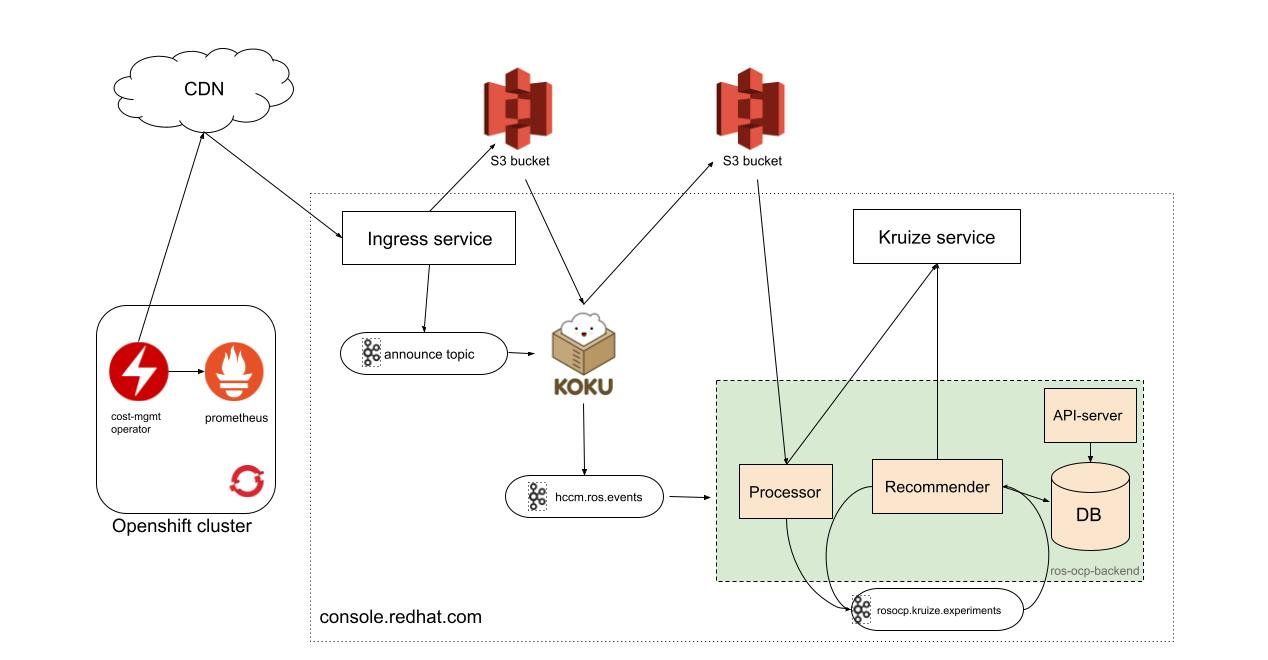
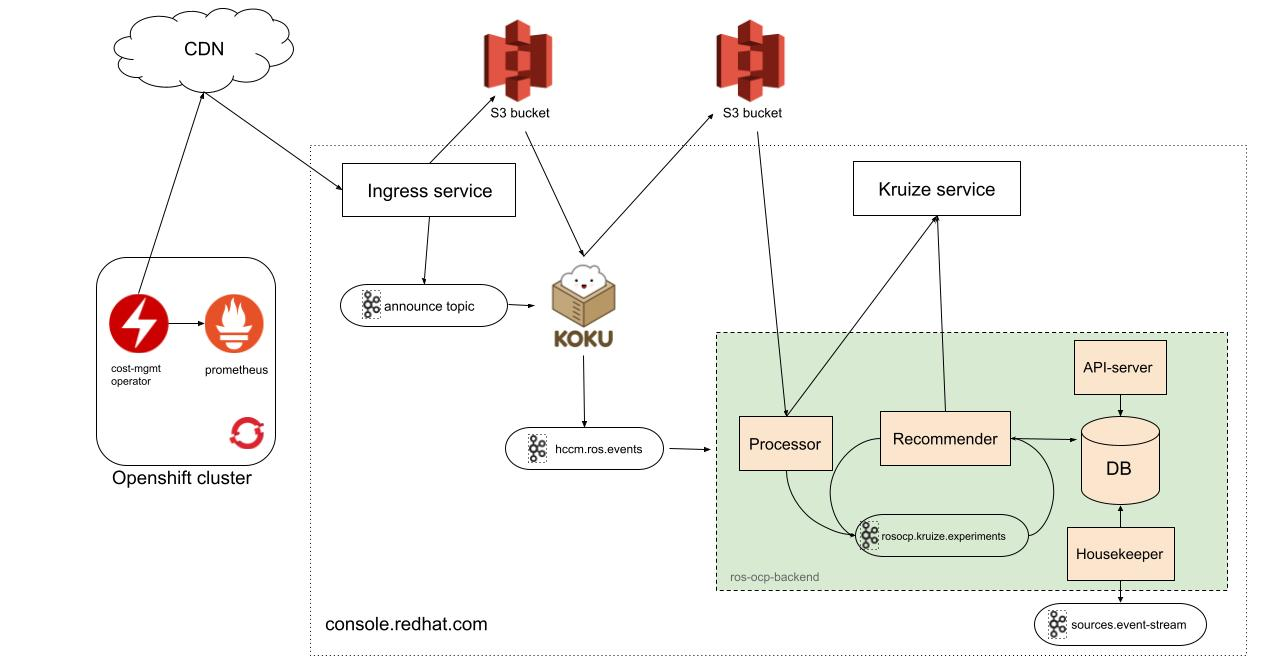
Fixes #RHIROS-1214 - Sources integration (#103)
* Fixes #RHIROS-1214 - Sources integration

diff --git a/internal/config/config.go b/internal/config/config.go
@@ -23,6 +23,7 @@ type Config struct {
 	KafkaAutoCommit       bool   `mapstructure:"KAFKA_AUTO_COMMIT"`
 	UploadTopic           string `mapstructure:"UPLOAD_TOPIC"`
 	ExperimentsTopic      string `mapstructure:"EXPERIMENTS_TOPIC"`
+	SourcesEventTopic     string `mapstructure:"SOURCES_EVENT_TOPIC"`
 	KafkaUsername         string
 	KafkaPassword         string
 	KafkaSASLMechanism    string
@@ -59,6 +60,10 @@ type Config struct {
 
 	// Prometheus config
 	PrometheusPort string `mapstructure:"PROMETHEUS_PORT"`
+
+	// Sources-api-go config
+	SourceApiBaseUrl string `mapstructure:"SOURCES_API_BASE_URL"`
+	SourceApiPrefix  string `mapstructure:"SOURCES_API_PREFIX"`
 }
 
 var cfg *Config = nil
@@ -73,6 +78,7 @@ func initConfig() {
 		viper.SetDefault("KAFKA_BOOTSTRAP_SERVERS", strings.Join(clowder.KafkaServers, ","))
 		viper.SetDefault("UPLOAD_TOPIC", clowder.KafkaTopics["hccm.ros.events"].Name)
 		viper.SetDefault("EXPERIMENTS_TOPIC", clowder.KafkaTopics["rosocp.kruize.experiments"].Name)
+		viper.SetDefault("SOURCES_EVENT_TOPIC", clowder.KafkaTopics["platform.sources.event-stream"].Name)
 
 		// Kafka SSL Config
 		if broker.Authtype != nil {
@@ -106,6 +112,8 @@ func initConfig() {
 				viper.SetDefault("RBACPort", endpoint.Port)
 				viper.SetDefault("RBACProtocol", "http")
 				viper.SetDefault("RBAC_ENABLE", true)
+			} else if endpoint.App == "sources-api" {
+				viper.SetDefault("SOURCES_API_BASE_URL", fmt.Sprintf("http://%v:%v", endpoint.Hostname, endpoint.Port))
 			}
 		}
 
@@ -125,6 +133,7 @@ func initConfig() {
 		viper.SetDefault("KAFKA_BOOTSTRAP_SERVERS", "localhost:29092")
 		viper.SetDefault("UPLOAD_TOPIC", "hccm.ros.events")
 		viper.SetDefault("EXPERIMENTS_TOPIC", "rosocp.kruize.experiments")
+		viper.SetDefault("SOURCES_EVENT_TOPIC", "platform.sources.event-stream")
 
 		// default DB Config
 		viper.SetDefault("DBName", "postgres")
@@ -144,7 +153,12 @@ func initConfig() {
 		// prometheus config
 		viper.SetDefault("PROMETHEUS_PORT", "5005")
 
+		// Sources-api-go
+		viper.SetDefault("SOURCES_API_BASE_URL", "http://127.0.0.1:8002")
+
 	}
+
+	viper.SetDefault("SOURCES_API_PREFIX", "/api/sources/v3.1")
 	viper.SetDefault("SERVICE_NAME", "rosocp")
 	viper.SetDefault("API_PORT", "8000")
 	viper.SetDefault("KRUIZE_WAIT_TIME", "30")

diff --git a/internal/services/houseKeeper.go b/internal/services/houseKeeper.go
@@ -1,0 +1,62 @@
+package services
+
+import (
+	"encoding/json"
+	"os"
+	"strconv"
+
+	k "github.com/confluentinc/confluent-kafka-go/v2/kafka"
+	"github.com/labstack/gommon/log"
+
+	"github.com/redhatinsights/ros-ocp-backend/internal/config"
+	"github.com/redhatinsights/ros-ocp-backend/internal/kafka"
+	"github.com/redhatinsights/ros-ocp-backend/internal/logging"
+	"github.com/redhatinsights/ros-ocp-backend/internal/model"
+	"github.com/redhatinsights/ros-ocp-backend/internal/types"
+	"github.com/redhatinsights/ros-ocp-backend/internal/utils/sources"
+)
+
+var cost_app_id int
+
+func StartHouseKeeperService() {
+	log := logging.GetLogger()
+	cfg := config.GetConfig()
+	var err error
+	cost_app_id, err = sources.GetCostApplicationID()
+	if err != nil {
+		log.Error("Unable to get cost application id")
+		os.Exit(1)
+	}
+
+	kafka.StartConsumer(cfg.SourcesEventTopic, sourcesListener)
+
+}
+
+func sourcesListener(msg *k.Message) {
+	headers := msg.Headers
+	for _, v := range headers {
+		if v.Key == "event_type" && string(v.Value) == "Application.destroy" {
+			var data types.SourcesEvent
+			if !json.Valid([]byte(msg.Value)) {
+				log.Errorf("Received message on kafka topic is not vaild JSON: %s", msg.Value)
+				return
+			}
+			if err := json.Unmarshal(msg.Value, &data); err != nil {
+				log.Errorf("Unable to decode kafka message: %s", msg.Value)
+				return
+			}
+			if data.Application_type_id == cost_app_id {
+				cluster := model.Cluster{
+					SourceId: strconv.Itoa(data.Source_id),
+				}
+				if err := cluster.DeleteCluster(); err != nil {
+					log.Errorf("unable to delete record from clusters table: %v. Error: %v", cluster, err)
+				} else {
+					log.Infof("Successfully deleted the cluster with Source_id: %v.", cluster.SourceId)
+				}
+			}
+
+		}
+	}
+
+}

diff --git a/internal/utils/sources/sources_api.go b/internal/utils/sources/sources_api.go
@@ -1,0 +1,34 @@
+package sources
+
+import (
+	"encoding/json"
+	"fmt"
+	"io"
+	"net/http"
+	"strconv"
+
+	"github.com/redhatinsights/ros-ocp-backend/internal/config"
+)
+
+var cfg *config.Config = config.GetConfig()
+
+func GetCostApplicationID() (int, error) {
+	url := cfg.SourceApiBaseUrl + cfg.SourceApiPrefix + "/application_types?filter[name][eq]=/insights/platform/cost-management"
+	res, err := http.Get(url)
+	if err != nil {
+		return 0, fmt.Errorf("error while calling sources API: %v", err)
+	}
+	defer res.Body.Close()
+	body, _ := io.ReadAll(res.Body)
+	if res.StatusCode != 200 {
+		return 0, fmt.Errorf("%v", res)
+	}
+	payload := map[string]interface{}{}
+	if err := json.Unmarshal(body, &payload); err != nil {
+		return 0, fmt.Errorf("unable to unmarshal response of sources /application_types API %v", err)
+	}
+	data := payload["data"].([]interface{})
+	app := data[0].(map[string]interface{})
+	cost_app_id, _ := strconv.Atoi(app["id"].(string))
+	return cost_app_id, nil
+}

diff --git a/cmd/start.go b/cmd/start.go
@@ -47,9 +47,19 @@ var apiCmd = &cobra.Command{
 	},
 }
 
+var houseKeeperCmd = &cobra.Command{
+	Use:   "housekeeper",
+	Short: "starts ros-ocp housekeeper service",
+	Run: func(cmd *cobra.Command, args []string) {
+		fmt.Println("starting ros-ocp housekeeper service")
+		services.StartHouseKeeperService()
+	},
+}
+
 func init() {
 	rootCmd.AddCommand(startCmd)
 	startCmd.AddCommand(processorCmd)
 	startCmd.AddCommand(recommenderCmd)
 	startCmd.AddCommand(apiCmd)
+	startCmd.AddCommand(houseKeeperCmd)
 }

diff --git a/internal/model/cluster.go b/internal/model/cluster.go
@@ -37,3 +37,13 @@ func (c *Cluster) CreateCluster() error {
 	}
 	return nil
 }
+
+func (c *Cluster) DeleteCluster() error {
+	db := database.GetDB()
+	result := db.Where("source_id = ?", c.SourceId).Delete(c)
+	if result.Error != nil {
+		dbError.Inc()
+		return result.Error
+	}
+	return nil
+}

diff --git a/internal/types/sources.go b/internal/types/sources.go
@@ -1,0 +1,8 @@
+package types
+
+type SourcesEvent struct {
+	Id                  int    `validate:"required"`
+	Source_id           int    `validate:"required"`
+	Application_type_id int    `validate:"required"`
+	Tenant              string `validate:"required"`
+}
